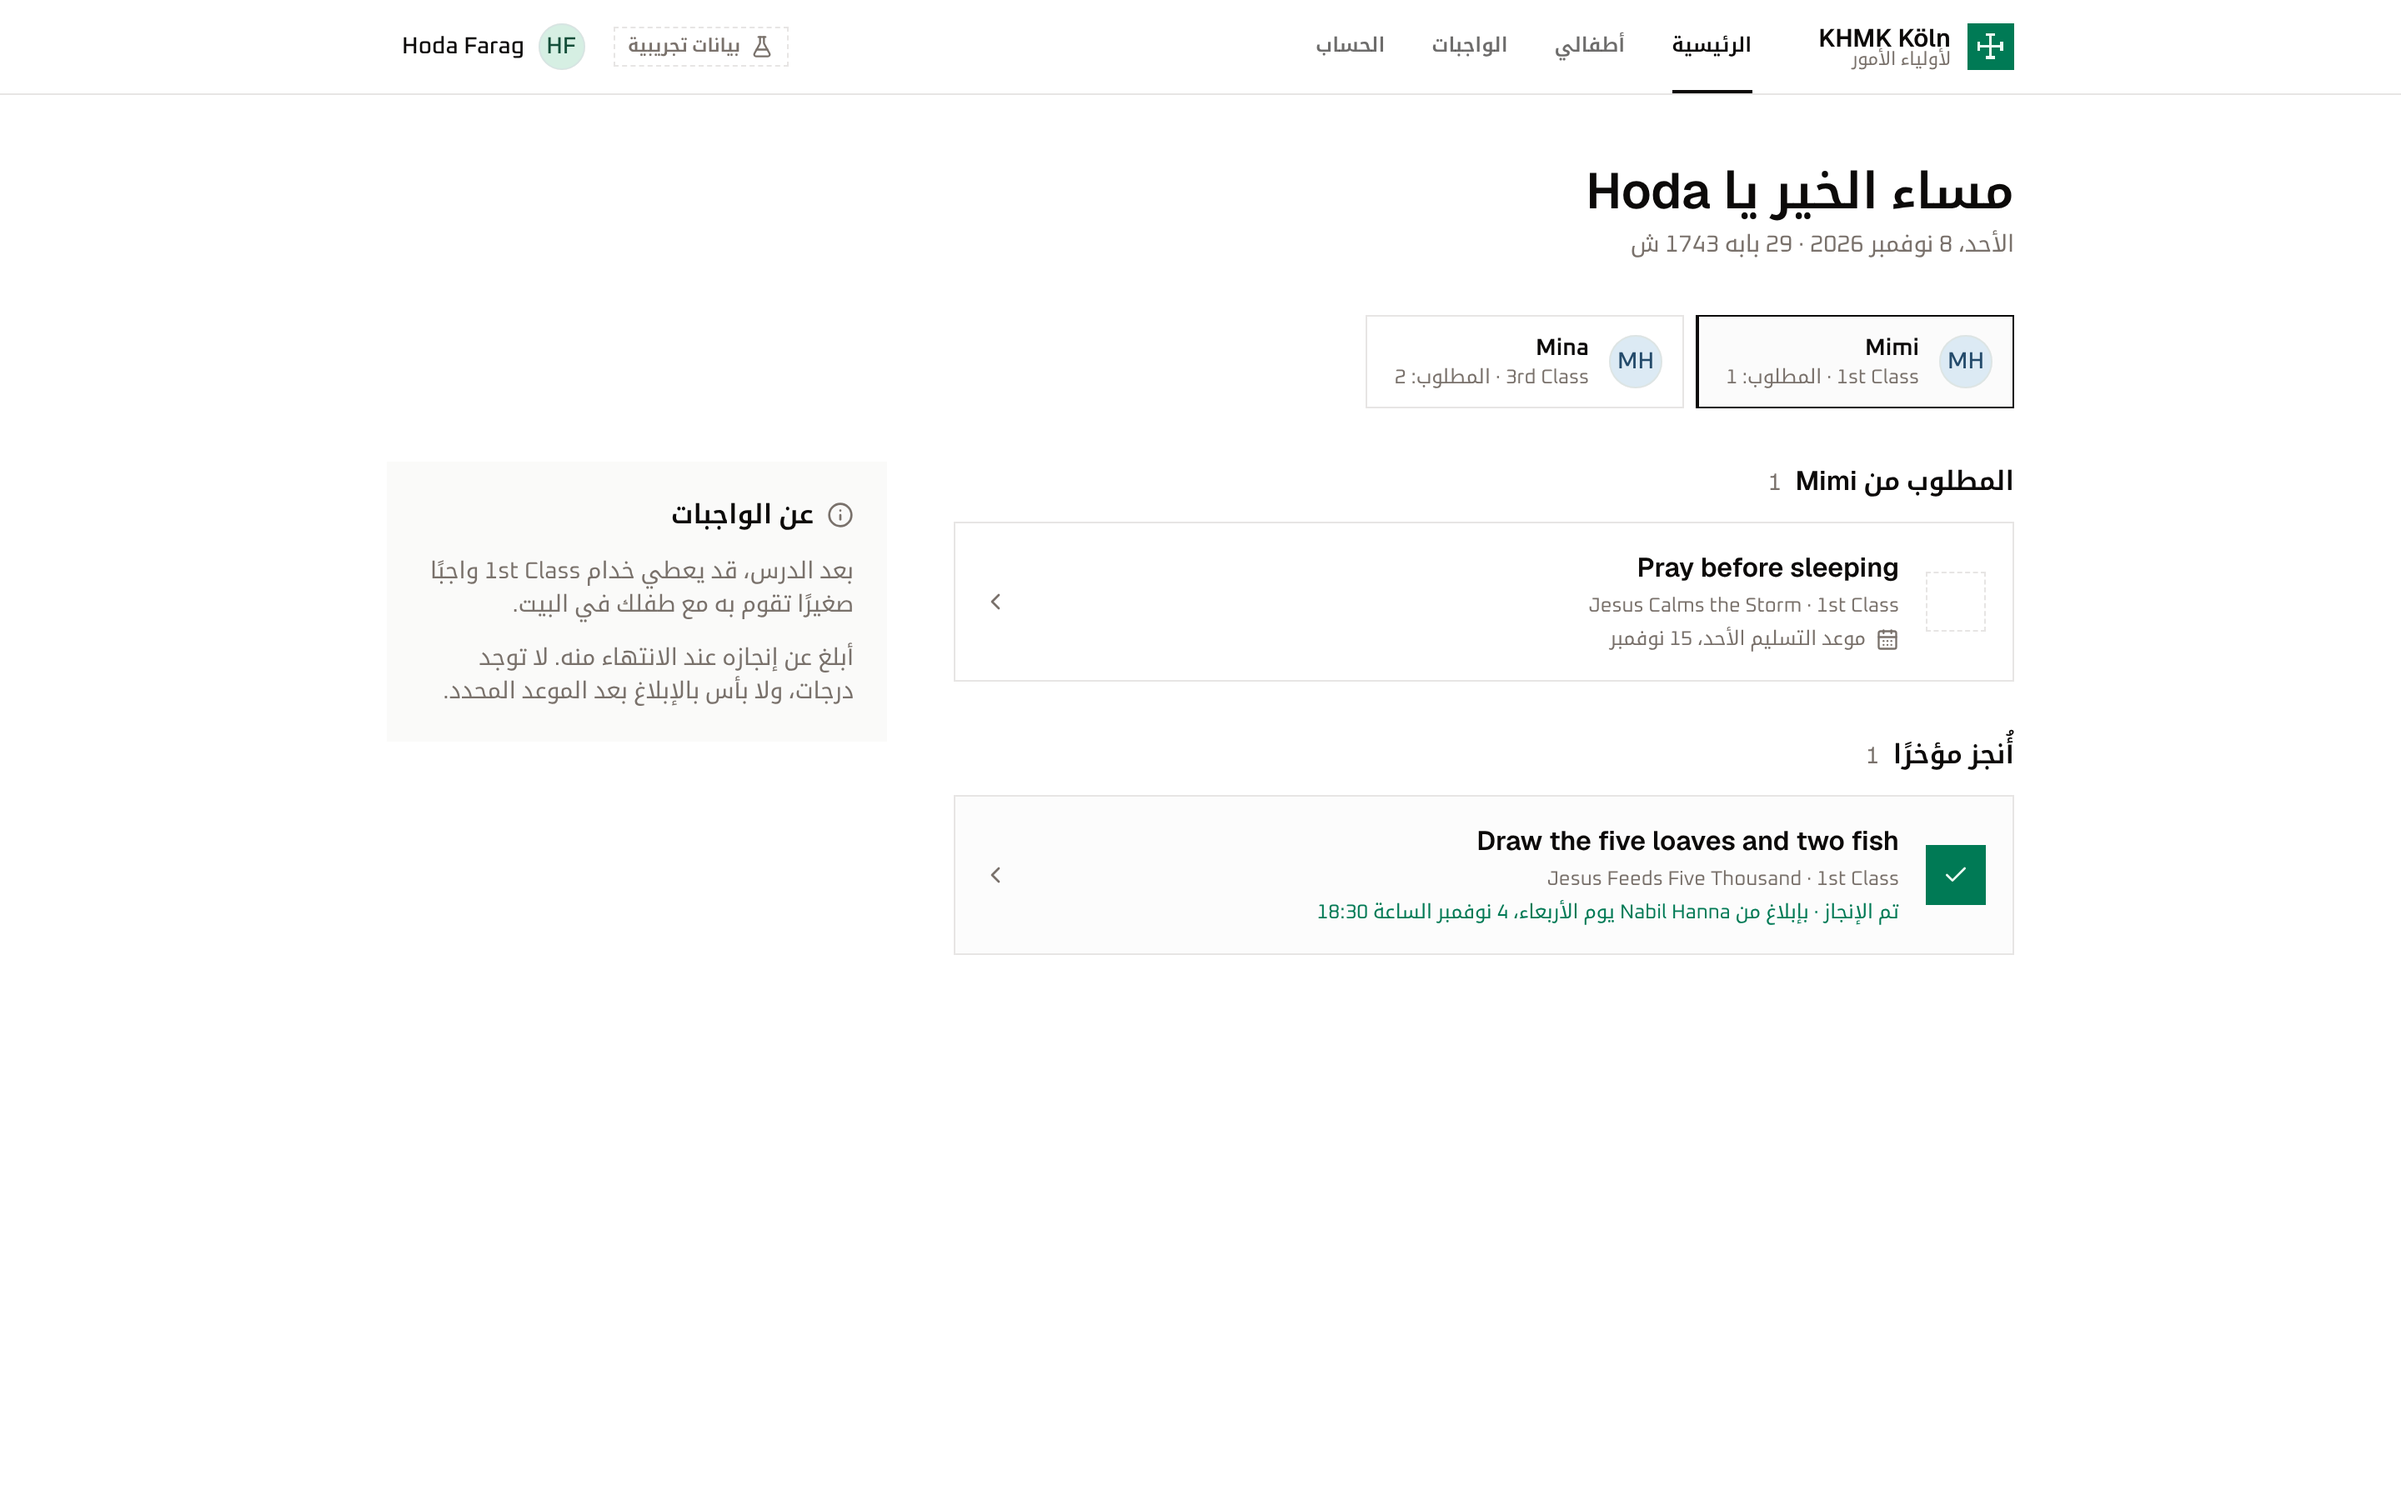
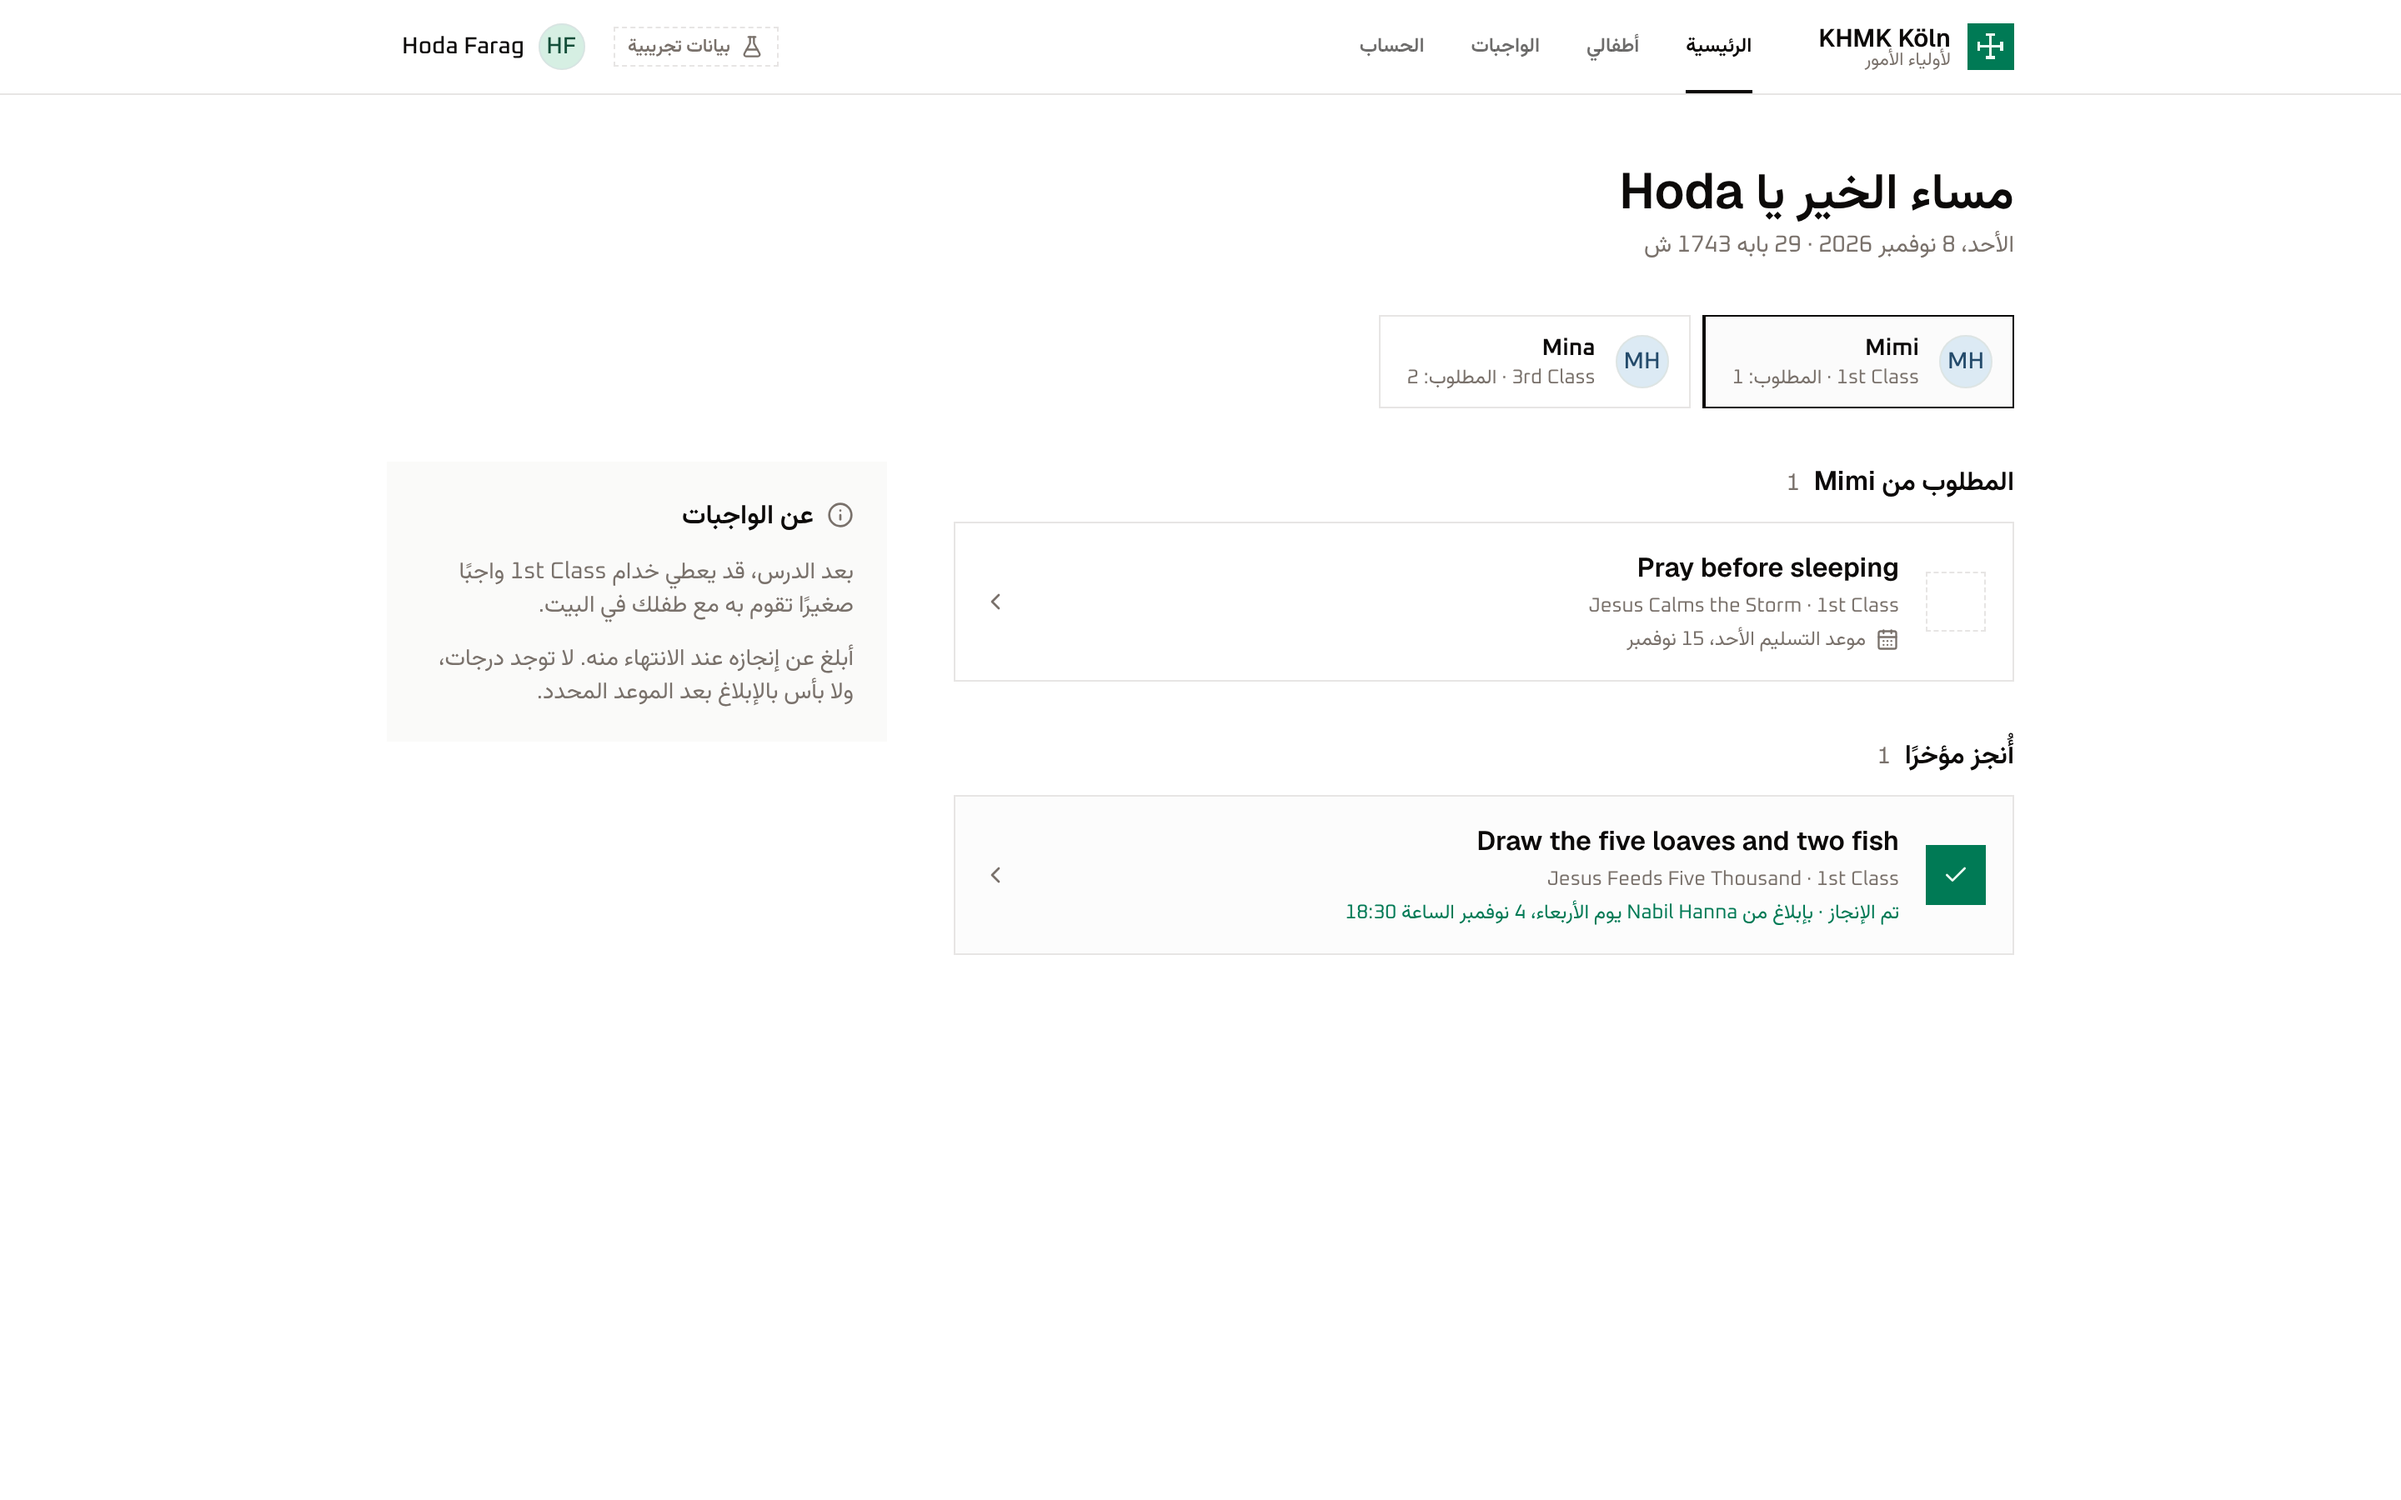
Use Vazirmatn for Arabic text

diff --git a/ui-prototype/src/app/layout.tsx b/ui-prototype/src/app/layout.tsx
@@ -1,5 +1,5 @@
 import type { Metadata, Viewport } from "next"
-import { Geist, Noto_Kufi_Arabic, Oxanium } from "next/font/google"
+import { Geist, Oxanium, Vazirmatn } from "next/font/google"
 import { NextIntlClientProvider } from "next-intl"
 import { getLocale, getTranslations } from "next-intl/server"
 import { cn } from "cn"
@@ -12,10 +12,10 @@ import "./globals.css"
 // Preset b3a10z1gt0: Oxanium for text, Geist for headings (self-hosted by next/font at build time).
 const fontText = Oxanium({ subsets: ["latin", "latin-ext"], variable: "--font-oxanium" })
 const fontHeading = Geist({ subsets: ["latin", "latin-ext"], variable: "--font-geist" })
-// Arabic letters: a Kufi face whose square forms match Oxanium. It comes after
-// the preset's fonts in the font stack, so it only draws Arabic (see globals.css);
-// only its Arabic subset is preloaded.
-const fontArabic = Noto_Kufi_Arabic({
+// Arabic letters: Vazirmatn, an open, modern Arabic sans that reads well at small
+// sizes. It comes after the preset's fonts in the font stack, so it only draws
+// Arabic (see globals.css); only its Arabic subset is preloaded.
+const fontArabic = Vazirmatn({
   subsets: ["arabic"],
   variable: "--font-arabic",
   adjustFontFallback: false,

diff --git a/ui-prototype/src/app/globals.css b/ui-prototype/src/app/globals.css
@@ -202,9 +202,9 @@
 }
 
 /* Fonts: the preset's Oxanium (text) and Geist (headings) come first; they have
-   no Arabic letters, so the browser takes those from Noto Kufi Arabic, letter by
+   no Arabic letters, so the browser takes those from Vazirmatn, letter by
    letter. Text that mixes both scripts (an Arabic page with a Latin name) keeps
-   each script in its own face. Noto Kufi also has Latin letters, which is why it
+   each script in its own face. Vazirmatn also has Latin letters, which is why it
    must not come first. */
 :root {
   --font-sans: var(--font-oxanium), var(--font-arabic), ui-sans-serif, system-ui, sans-serif;
